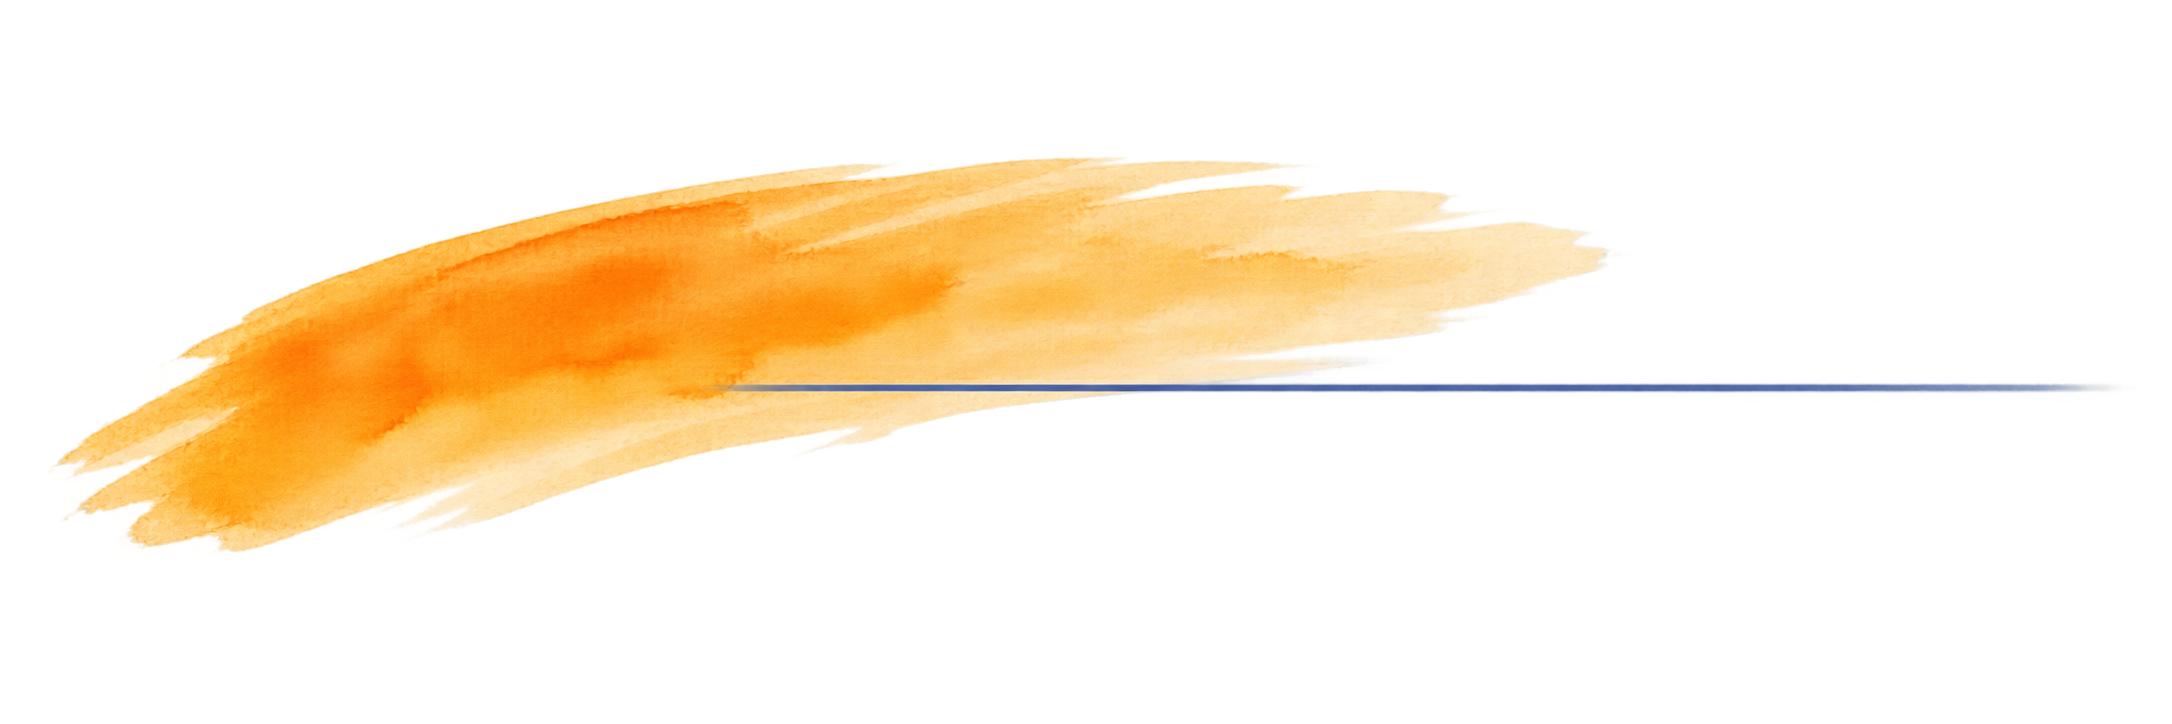
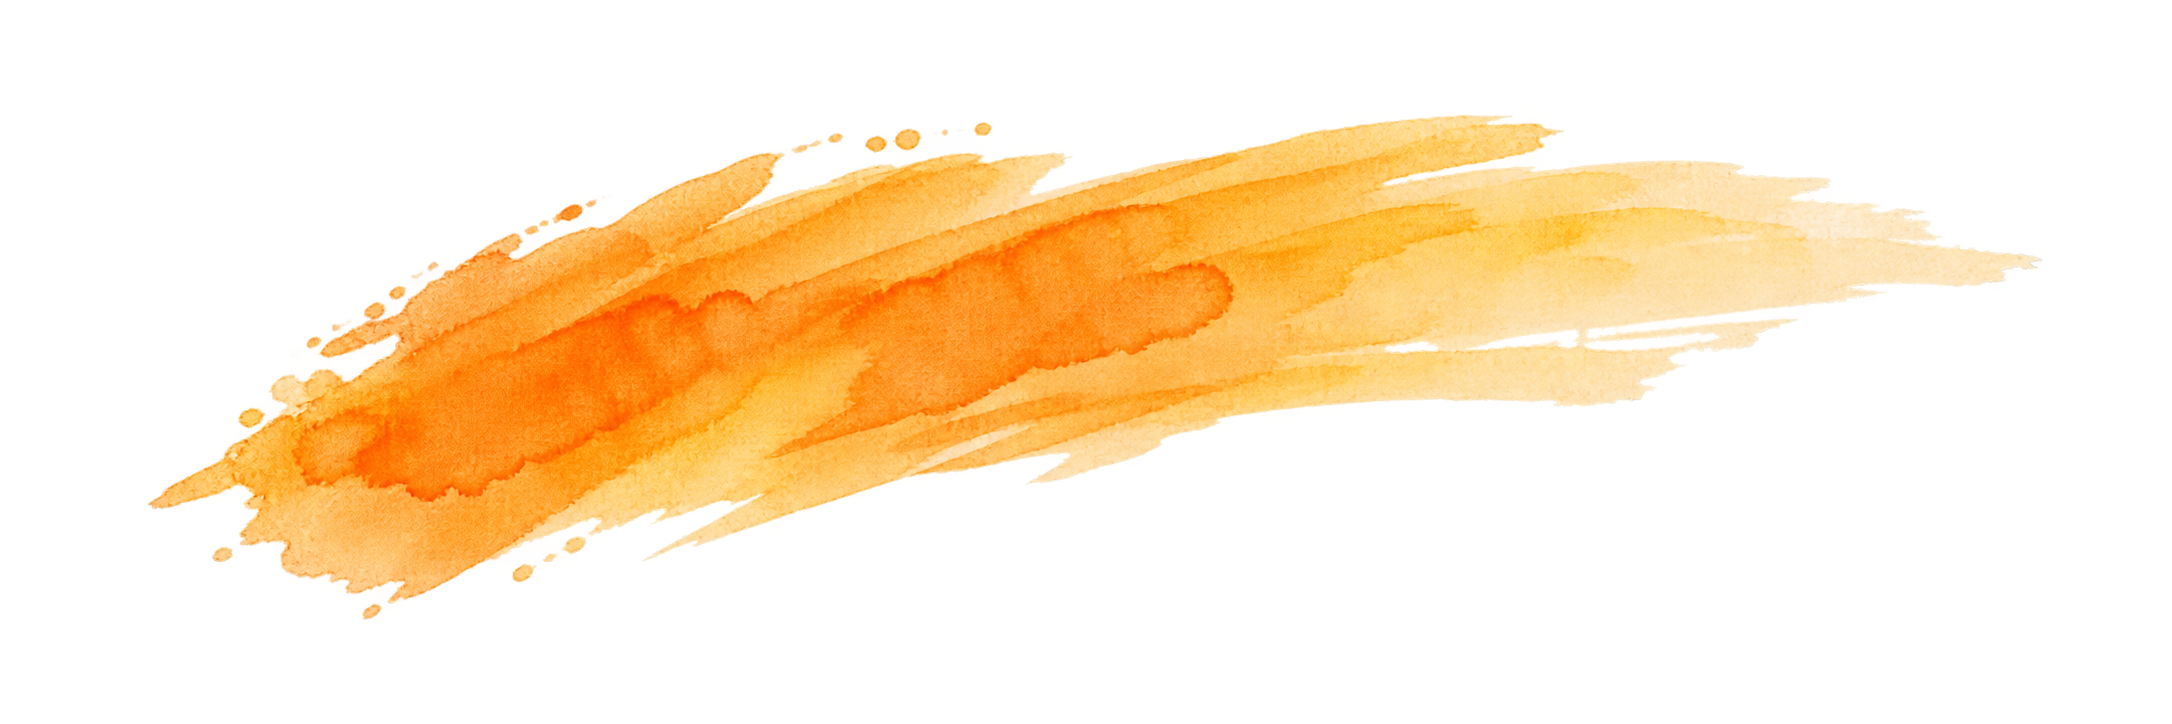
fix: ラベルの筆の見切れを解消し、罫線なし素材と新ロゴに差し替え
見切れの原因は、3:1 の素材を 56px の帯に object-fit: cover で切って
いたこと。ストロークの上下が平らに切り落とされ、筆に見えなくなっていた。
素材の縦横比のまま丸ごと出すように変更した。

- SectionHeading: 帯への切り取りをやめ、aspect-ratio で素材と同じ比率の
  箱を作って全体を収める。ラベルはストロークの中心に置く。
- 罫線なし版に差し替えたため ruleY による位置補正を削除。
  下線は §3.6 のとおり CSS で短く引く。
- 新素材でコントラストを再測定(不透明度 0.55):
  pink 8.0:1 / amber 9.7:1 / teal 7.3:1 / indigo 5.5:1。
  最も厳しい indigo でも AA を満たす(上限は 0.6)。
- ロゴを新しいワードマークに差し替え。透明の余白を切り落としたので、
  旧素材の余白を打ち消していた負のマージンは不要になり削除した。

Claude-Session: https://claude.ai/code/session_01RMp1jcgKDi1n1ov1x8uSmc

Changed region(s): [[0.0308, 0.1519, 0.9563, 0.8508], [0.4319, 0.1519, 0.4627, 0.1823]]

diff --git a/src/components/decor/SectionHeading.tsx b/src/components/decor/SectionHeading.tsx
@@ -7,13 +7,17 @@ import { LABEL_ASSETS, type LabelColor } from "./brushAssets";
  * 英字ラベルを筆の上に置き、日本語の見出しは地の上に置く。
  * 文字はすべて HTML のテキストで書く。画像に文字を焼き込まない。
  *
+ * 筆は素材の縦横比のまま丸ごと出す。帯の高さに合わせて切り取ると
+ * ストロークの上下が平らに切れて、筆に見えなくなる。
+ * (素材の縦の内訳: ストロークは高さの約 15%〜84%。残りは余白。)
+ *
  * 色はセクションごとに固定する(呼び出し側で決め、途中で変えない)。
  * 筆の4色は装飾専用で、文字色やボタンには使わない(§3.3)。
  *
  * 不透明度 0.55 の根拠(§9):
- * 素材の最も濃い画素に本文色 #1C1A17 を乗せたときのコントラストを実測し、
- * 4色すべてが AA(4.5:1)を満たす値にしている。最も厳しいのは indigo で、
- * 素の状態では 1.8:1 しかない。ここを上げるときは必ず測り直すこと。
+ * 素材の最も濃い画素に本文色 #1C1A17 を乗せたときのコントラストを実測した値。
+ * pink 8.0:1 / amber 9.7:1 / teal 7.3:1 / indigo 5.5:1。
+ * 最も厳しい indigo は 0.6 が AA の上限なので、ここを上げるときは測り直すこと。
  */
 const BRUSH_OPACITY = 0.55;
 
@@ -33,39 +37,36 @@ export default function SectionHeading({ label, heading, color, id }: Props) {
   return (
     <div className="relative">
       {/*
-        筆は英字ラベルの帯だけを覆う。日本語の見出しには掛けない(§3.4)。
-        ラベルの左端より少し外から始めて、筆の入りが切れないようにする。
-
-        素材は 3:1 の横長で、ストロークは上下中央付近にある。帯の高さに
-        合わせて切り出すため object-fit: cover を使い、object-position の
-        縦位置に素材ごとの罫線位置(ruleY)を渡している。こうすると幅が
-        変わっても罫線と文字の関係が保たれる。
-        (この方式でも色ごとに 4px ほどの差が残る。罫線なし版に
-         差し替えれば ruleY ごと不要になる。)
+        筆とラベルの箱。素材と同じ縦横比を持たせ、画像を切らずに収める。
+        左に少しはみ出させて、筆の入りが列の外から始まるようにする。
       */}
-      <div className="pointer-events-none absolute -left-[6%] top-0 h-14 w-[min(34rem,88%)] overflow-hidden md:h-16">
+      <div
+        className="relative -ml-[4%] w-[min(26rem,92%)]"
+        style={{ aspectRatio: `${asset.width} / ${asset.height}` }}
+      >
         <Image
           src={asset.src}
           alt=""
           fill
           aria-hidden="true"
-          sizes="(min-width: 768px) 34rem, 88vw"
-          style={{
-            opacity: BRUSH_OPACITY,
-            objectFit: "cover",
-            objectPosition: `center ${(asset.ruleY * 100).toFixed(1)}%`,
-          }}
+          sizes="(min-width: 768px) 26rem, 92vw"
+          className="object-contain"
+          style={{ opacity: BRUSH_OPACITY }}
         />
-      </div>
 
-      <p className="relative flex h-14 items-center text-[0.6875rem] font-medium leading-none tracking-[0.24em] text-ink md:h-16 md:text-xs">
-        {label}
-      </p>
+        {/*
+          ラベルはストロークの中心に置く。下線は §3.6 のとおり CSS で
+          短く引く(素材に罫線は含まれない)。
+        */}
+        <p className="absolute left-[4%] top-1/2 -translate-y-1/2 border-b border-ink/45 pb-2 text-[0.6875rem] font-medium leading-none tracking-[0.24em] text-ink md:text-xs">
+          {label}
+        </p>
+      </div>
 
       {heading && (
         <h2
           id={id}
-          className="relative mt-6 max-w-2xl font-display text-lg font-light leading-[1.85] tracking-[0.04em] text-ink md:text-xl"
+          className="relative mt-4 max-w-2xl font-display text-lg font-light leading-[1.85] tracking-[0.04em] text-ink md:text-xl"
         >
           {heading}
         </h2>

diff --git a/src/components/decor/brushAssets.ts b/src/components/decor/brushAssets.ts
@@ -41,28 +41,24 @@ export const BRUSH: Record<BrushName, BrushAsset> = {
 /**
  * セクション見出しの下敷き(§3.6)。支給素材。
  *
- * 画像には細い罫線が含まれており、その位置が4色で揃っていない。
- * 実測(画像高さに対する比):
- *   pink 53.4% / amber 53.5% / teal 54.5% / indigo 61.6%
- * indigo だけ約7%下にあるため、そのままでは下線がずれる。
- * ruleY を使って層を上下にずらし、見た目の下線位置を揃えている。
+ * 罫線なし版に差し替え済み。下線は CSS で引く(§3.6「小さな英字＋短い下線」)。
+ * ストロークは画像高さの約 15%〜84% に入っている。
  *
- * 罫線なし版を支給いただいたら ruleY ごと削除し、下線は CSS で引くこと。
+ * 本文色 #1C1A17 を最も濃い画素に乗せたときのコントラスト実測:
+ *   pink 8.0:1 / amber 9.7:1 / teal 7.3:1 / indigo 5.5:1 (いずれも不透明度 0.55)
+ * 最も厳しい indigo でも AA を満たす。濃さを上げるときは測り直すこと。
  */
 export type LabelColor = "pink" | "amber" | "teal" | "indigo";
 
 export const LABEL_ASSETS: Record<
   LabelColor,
-  { src: string; width: number; height: number; ruleY: number }
+  { src: string; width: number; height: number }
 > = {
-  pink: { src: "/brush/label-pink.webp", width: 2172, height: 724, ruleY: 0.534 },
-  amber: { src: "/brush/label-amber.webp", width: 2172, height: 724, ruleY: 0.535 },
-  teal: { src: "/brush/label-teal.webp", width: 2172, height: 724, ruleY: 0.545 },
-  indigo: { src: "/brush/label-indigo.webp", width: 2172, height: 724, ruleY: 0.616 },
+  pink: { src: "/brush/label-pink.webp", width: 2172, height: 724 },
+  amber: { src: "/brush/label-amber.webp", width: 2172, height: 724 },
+  teal: { src: "/brush/label-teal.webp", width: 2172, height: 724 },
+  indigo: { src: "/brush/label-indigo.webp", width: 2172, height: 724 },
 };
-
-/** 下線を揃える基準。pink / amber の実測値。 */
-export const LABEL_RULE_BASE = 0.534;
 
 /**
  * サービスの番号(§5.4)。支給素材 script-text.png(中身は 01〜04)から

diff --git a/src/components/layout/Header.tsx b/src/components/layout/Header.tsx
@@ -27,18 +27,16 @@ export default function Header() {
         <div className="mx-auto grid max-w-[1200px] grid-cols-[1fr_auto_1fr] items-center px-5 py-4 md:px-10 md:py-5">
           <Link
             href="/"
-            // ワードマークPNGは左右18%・上下30%の余白を含んだ書き出しになっている。
-            // 素材を書き換えず、余白ぶんを見込んで拡大し左に引き戻す。
-            className="-ml-8 justify-self-start transition-opacity hover:opacity-80"
+            className="justify-self-start transition-opacity hover:opacity-80"
             aria-label={BRAND.name}
           >
             <Image
-              src="/brand/wordmark-dark.png"
+              src="/brand/wordmark.webp"
               alt={BRAND.name}
-              width={2048}
-              height={512}
+              width={1942}
+              height={663}
               priority
-              className="h-10 w-auto md:h-11"
+              className="h-12 w-auto md:h-14"
             />
           </Link>
 
